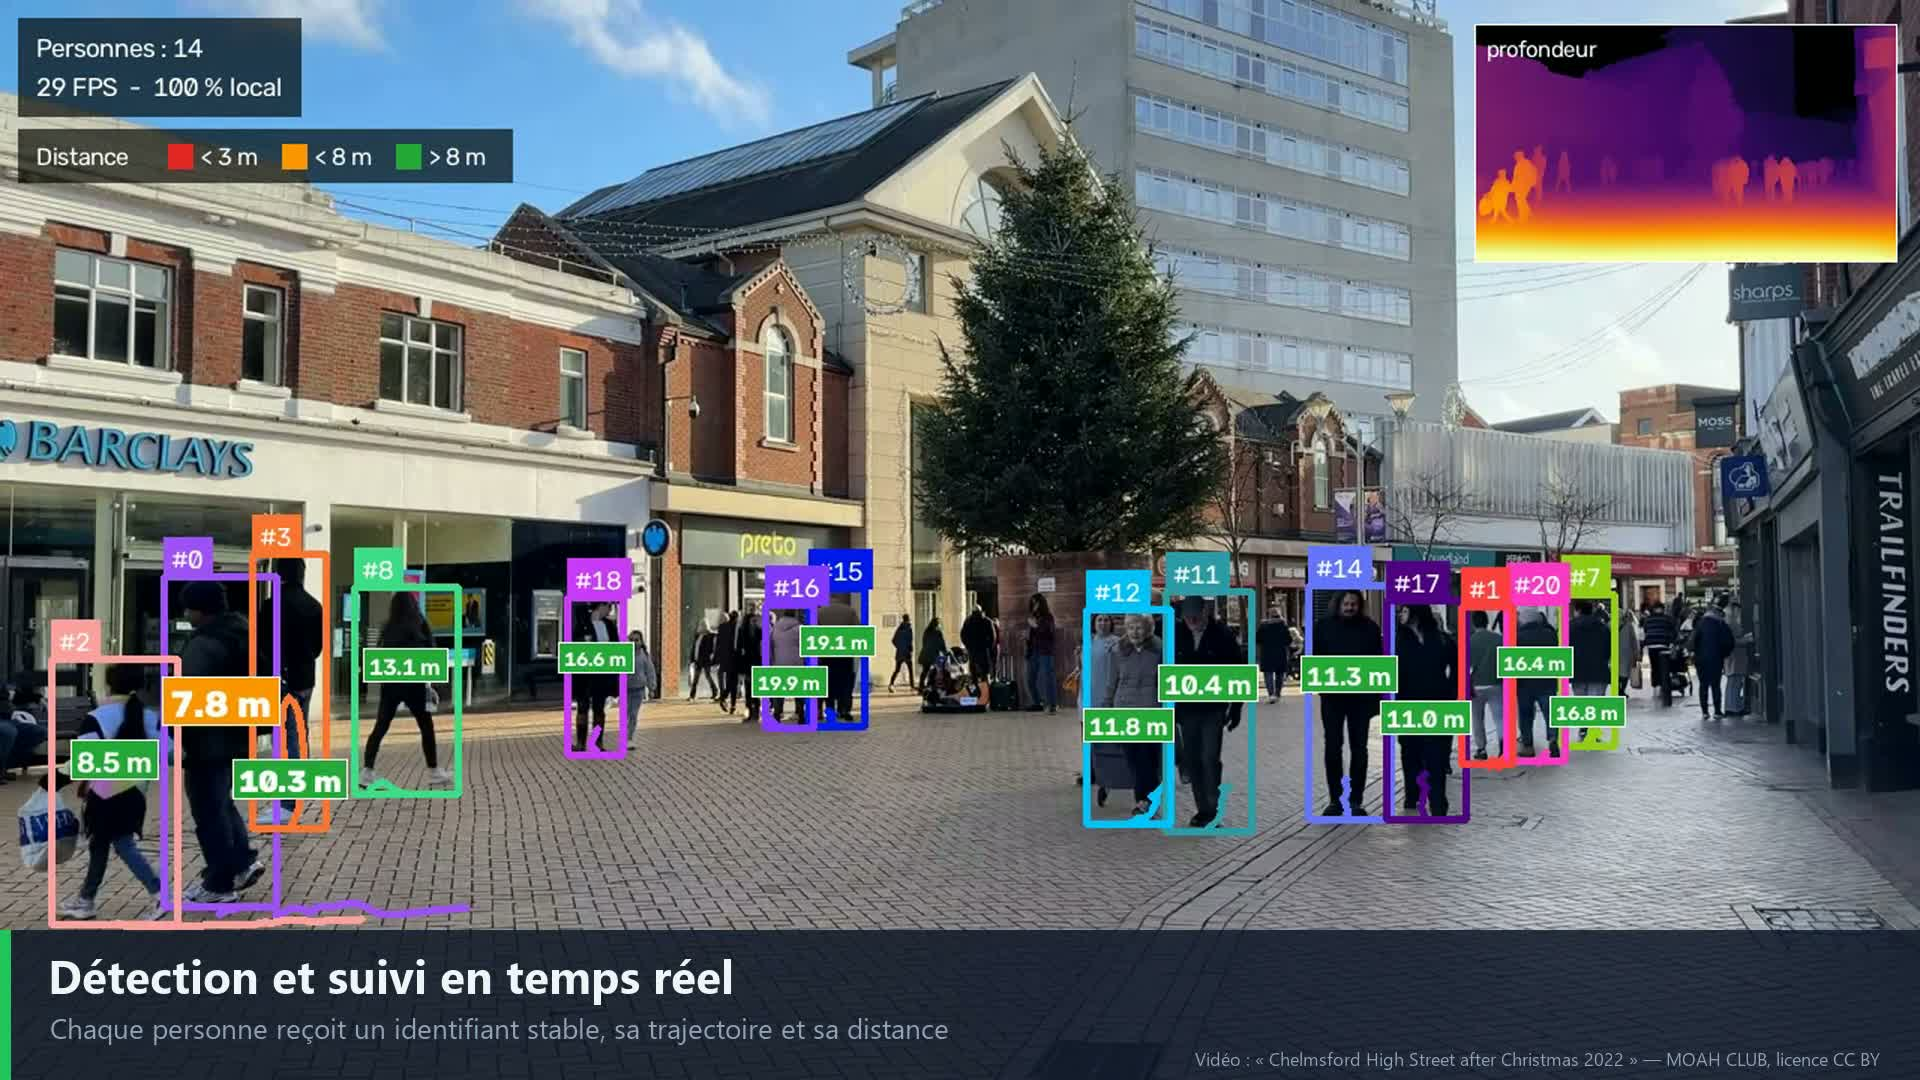
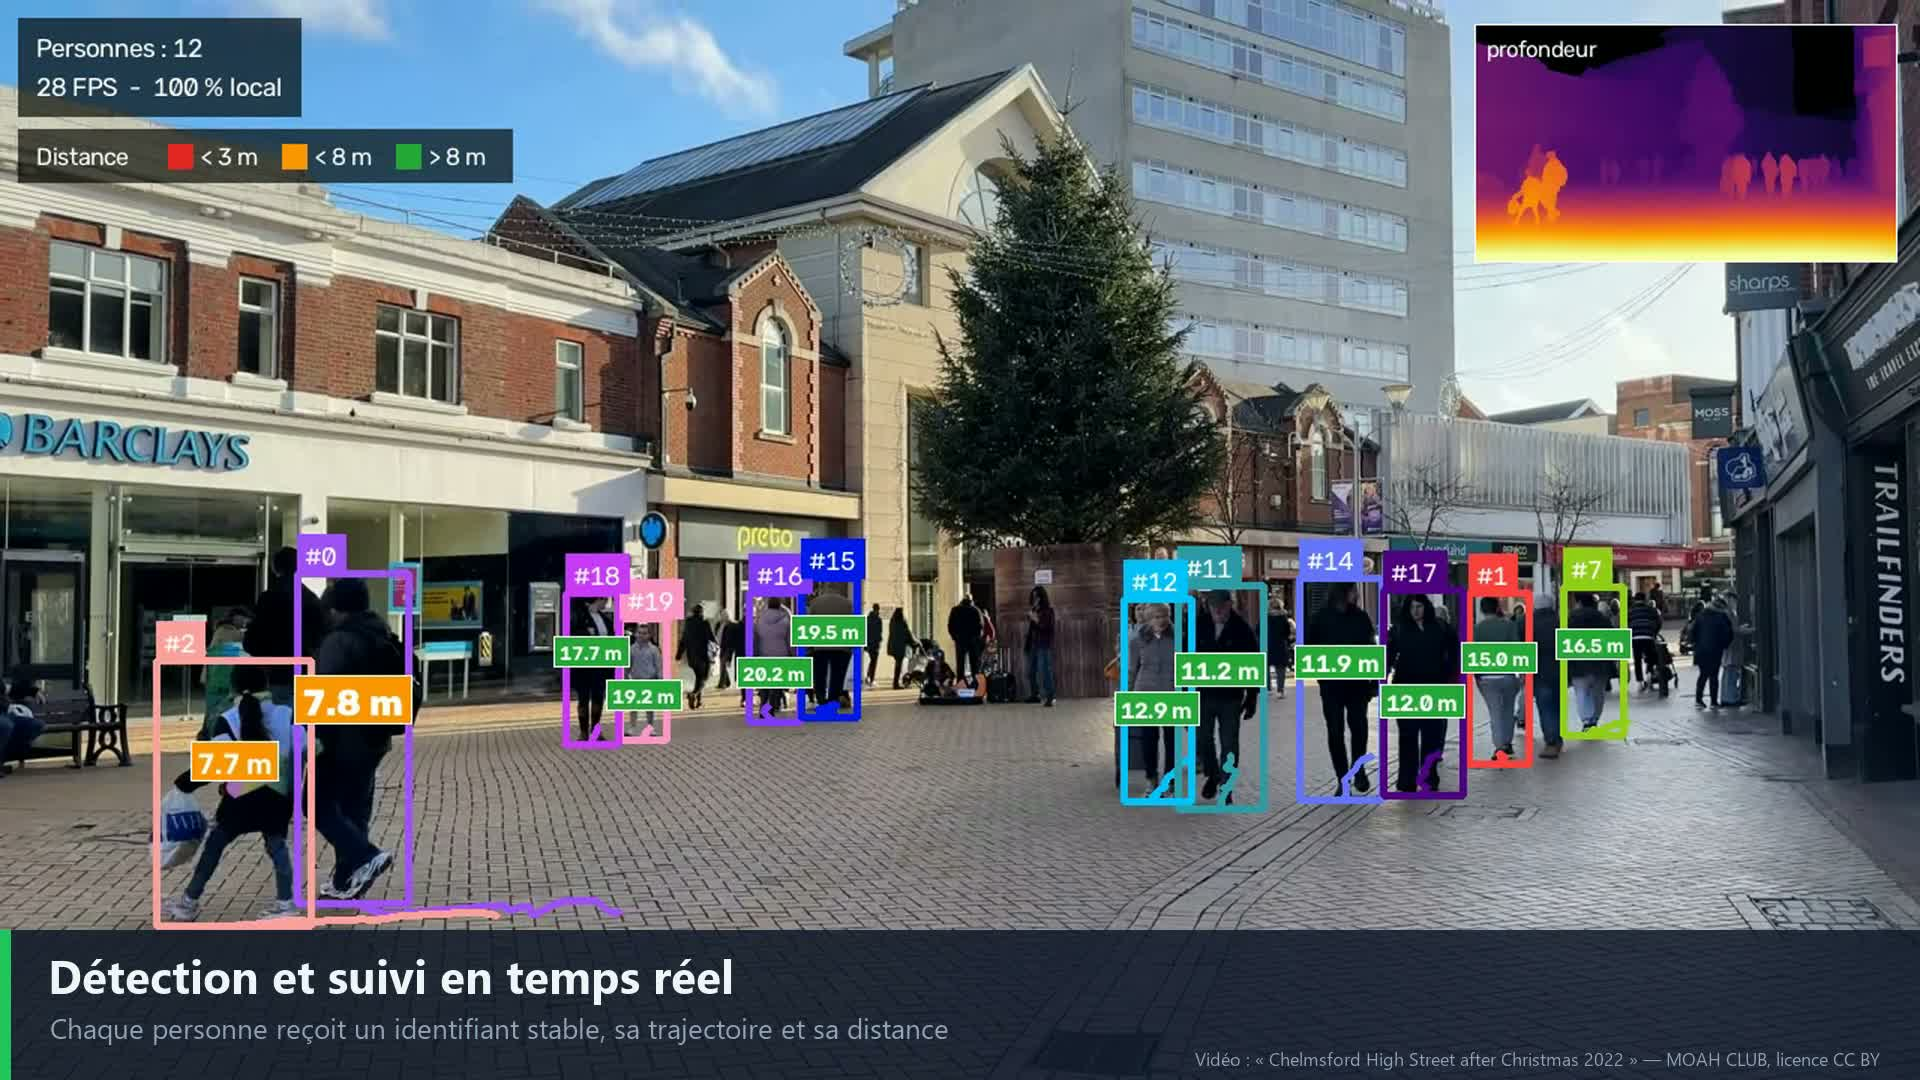
README : vidéo de démo v0.2.0

diff --git a/README.md b/README.md
@@ -3,9 +3,9 @@
 Détection, tracking et estimation de distance de personnes en temps réel, sur GPU NVIDIA grand public.
 **100 % local** : aucune image ne quitte le site.
 
-[![Vidéo de démo VisionTrack — cliquer pour la regarder](docs/images/demo_poster.jpg)](https://github.com/PDUCLOS/visiontrack/releases/download/v0.1.0/visiontrack_demo_web.mp4)
+[![Vidéo de démo VisionTrack — cliquer pour la regarder](docs/images/demo_poster.jpg)](https://github.com/PDUCLOS/visiontrack/releases/download/v0.2.0/visiontrack_demo_web.mp4)
 
-▶ **[Voir la vidéo de démo (1 min 57)](https://github.com/PDUCLOS/visiontrack/releases/download/v0.1.0/visiontrack_demo_web.mp4)** : pipeline, 8 exemples (suivi, distance, foule dense, nuit, comptage, zone interdite, heatmap), réglages et comparatif rapide / précision. [Version 1080p](https://github.com/PDUCLOS/visiontrack/releases/download/v0.1.0/visiontrack_demo.mp4) · [Release v0.1.0](https://github.com/PDUCLOS/visiontrack/releases/tag/v0.1.0)
+▶ **[Voir la vidéo de démo (2 min 24)](https://github.com/PDUCLOS/visiontrack/releases/download/v0.2.0/visiontrack_demo_web.mp4)** : pipeline, 8 exemples (suivi, distance, foule dense, nuit, comptage, zone interdite, heatmap), réglages et comparatif rapide / précision. [Version 1080p](https://github.com/PDUCLOS/visiontrack/releases/download/v0.2.0/visiontrack_demo.mp4) · [Release v0.2.0](https://github.com/PDUCLOS/visiontrack/releases/tag/v0.2.0)
 
 ![Démo VisionTrack — rue piétonne de Chelmsford](docs/images/demo_chelmsford.png)
 
